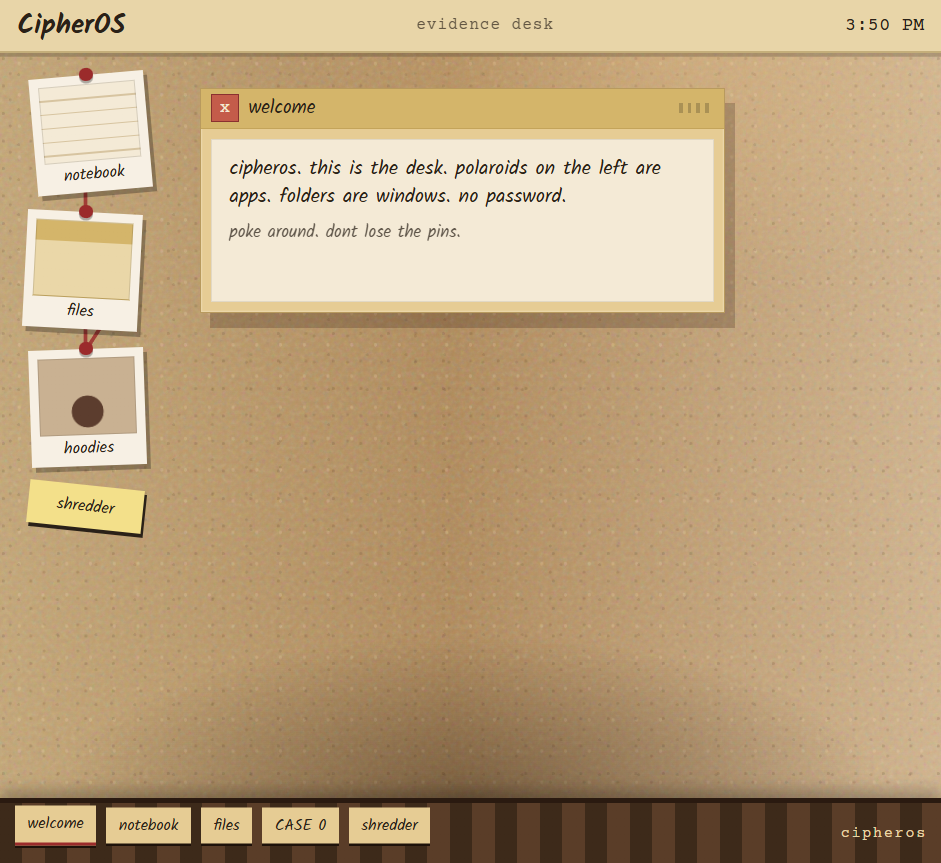
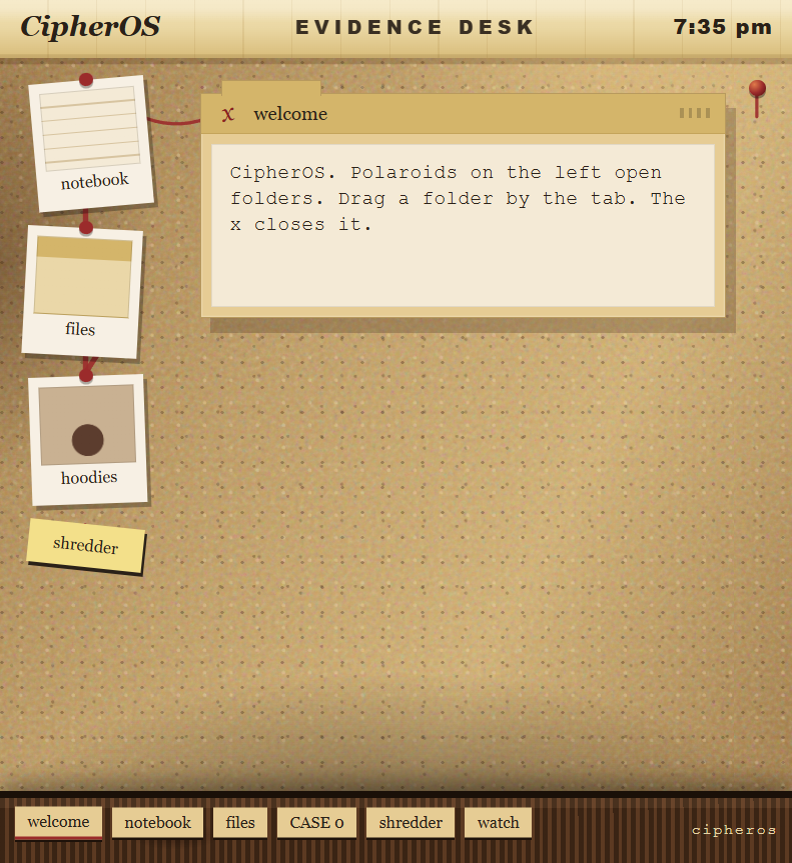
Wrote a longer readme so you can actually set the desk up locally, and swapped in shots of the new cork look.

diff --git a/README.md b/README.md
@@ -1,50 +1,98 @@
 # CipherOS
 
-A detective corkboard that runs in a browser tab. HTML, CSS and JavaScript. No frameworks, no build, no npm. Open `index.html` and it runs.
+A detective corkboard in a browser tab. Polaroids on the left, manila folders on the cork, dull red yarn between them, masking tape across the top, a wood strip at the bottom. HTML, CSS, and JavaScript. No frameworks, no build, no npm. sooo simple on paper.
 
-https://cipheros.techxtreme.me
+Live desk: https://cipheros.techxtreme.me
 
-(if that domain is down: https://cipheros-ten.vercel.app)
+Backup if DNS is being wierd: https://cipheros-ten.vercel.app :)
 
 ![desk](shots/desk.png)
 
-```
-index.html   the page
-style.css    cork, folders, polaroids
-os.js        drag, close, pins, clock
-apps.js      notebook, files, CASE 0, shredder
-store.js     loads os.js then apps.js
-shots/       screenshots for this readme
-```
+## Run it on your computer
 
-## Running it
-
-Double-click `index.html`, or serve the folder so everything actually loads:
+You need a browser. A tiny local server is the relible way to load the css and js. Python 3 is enough okayyy. You do not install packages for this repo.
 
 ```
 git clone https://github.com/its-techxtreme/cipheros.git
 cd cipheros
+```
+
+Then start a server in that folder likeee.
+
+On Windows (whichever one works on your machine):
+
+```
 python -m http.server 8000
 ```
 
-Then open http://127.0.0.1:8000
+or
 
-## What's in it
+```
+py -m http.server 8000
+```
 
-**The board** is the whole page. Cork wall, tape bar with a clock, polaroids on the left, wood strip at the bottom. No wallpaper of a phone on a desk.
+On Mac or Linux:
 
-**Windows** are manila folders. Drag the tab (the grip on the right). The scribbly x closes them. Click a folder to bring it forward. No min, no max, no resize.
+```
+python3 -m http.server 8000
+```
 
-**notebook** takes clues. Pin note. They stick in this browser after refresh (`cipheros-notes` in localStorage).
+Open http://127.0.0.1:8000 in the browser yesss :D. Leave the terminal running while you use the desk. Ctrl+C stops the server.
 
-**files** is a shelf of cards: desk map, active case, loop pile, CASE 0.
+If Python is not installed, Node can serve the same folder:
 
-**hoodies** is CASE 0. Campfire Flagship Hoodies went missing (L, M, S). No shop photos, so they're silhouettes with a ? on them.
+```
+npx --yes serve . -p 8000
+```
 
-**shredder** says evidence destroyed: 0. It's empty on purpose rn.
+Double-clicking `index.html` sometimes works waittt. If you get a naked page with no cork and no folders, use the server instead. That is the usual "I opened the file and it looks broken" fix.
+
+You do not need an account. There is nooo password wall +_+
+
+## How you use the desk
+
+Welcome is open when you land ywahhh. Click **CipherOS** on the tape if you closed it and want it back.
+
+The polaroids and the shredder sticky on the left open folders. One click is enough rlyyy.
+
+Folders drag from the tab, the brown strip with the title hmmmm. Grabbing the paper does not move them. Click a folder to pull it in front. The scribbly **x** closes it. There is no minimize, no maximize, no resize handle.
+
+Dull red yarn runs from each pin to its folder prettyyy. Close a folder and a leftover tack stays where the tab was. The string still hangs there. Open it again and the yarn snaps back to the tab.
+
+The clock on the tape is a button actuallyyy. It opens a little **watch** folder. The wood chips along the bottom follow whichever folder is in front.
+
+Yarn was the thing that ate a weekend damnmm ;-}. I thought pin-to-folder would be two coordiantes and a line. Then the board resized, folders sat on `right`/`bottom` instead of `left`/`top`, and the shredder jumped across the cork the first time you dragged it. I tried straight lines, then they looked like a diagram. The saggy quadratic path is what survived after I threw the first version out. Closing a folder used to kill the string entirely, which looked cheap, so leftover tacks are me being stubborn about that.
+
+## What's on it
+
+**The board** is the page lowkeyyy. Cork grain, pinholes, a lamp in the corner, darker edges. The tape bar is masking tape with **CipherOS**, **EVIDENCE DESK**, and the clock. The bottom strip is wood grain, not another piece of cork.
+
+Type is split on purpose frrr. Tape titles are Georgia. The stamp on the tape (EVIDENCE DESK, the clock) is bold Arial. Paper inside folders is Courier New.
+
+**notebook** is lined paper. Type a clue, hit Enter or **pin note**. Scratch deletes a line. Notes save in this browser under `cipheros-notes` in localStorage, so a refresh definately keeps them pleaseee. Clearing site data wipes them.
+
+**files** is a seperate shelf of cards: desk map, active case, loop pile, CASE 0. The first three drop a blurb on the paper. CASE 0 opens the hoodie folder.
+
+**hoodies** is CASE 0. Three Campfire Flagship Hoodies went missing from the swag shelf, sizes L, M, and S. No shop photos, so you get silouettes with a question mark brooo o_O. The story is still sitting on the board. You can look, you cannot solve it yet.
+
+**shredder** sits bottom-right. Evidence destroyed: 0. Empty on purpose goood. It has not eaten anything.
+
+**watch** is the tape clock in a folder idkkk. Seconds tick on the face. Same time as the tape.
 
 ![folders](shots/folders.png)
 
-No password. Polaroids open the folders. Don't lose the pins.
+## Files in the repo
 
-MIT, see LICENSE.
+```
+index.html   the desk: tape, pins, folders, yarn paths, wood strip
+style.css    cork, tape, wood, folders, polaroids, yarn, apps
+os.js        pins, drag, close, leftover tacks, yarn, clock, dock
+apps.js      notebook, files, CASE 0, shredder, watch guts
+store.js     tiny localStorage helpers, then loads os.js and apps.js
+shots/       pictures for this readme
+LICENSE      MIT
+```
+
+That is the whole product anywayyy. Open those files if you want to change copy or colors. Palette lives at the top of `style.css`.
+
+MIT, see LICENSE. recieve the files and go.
